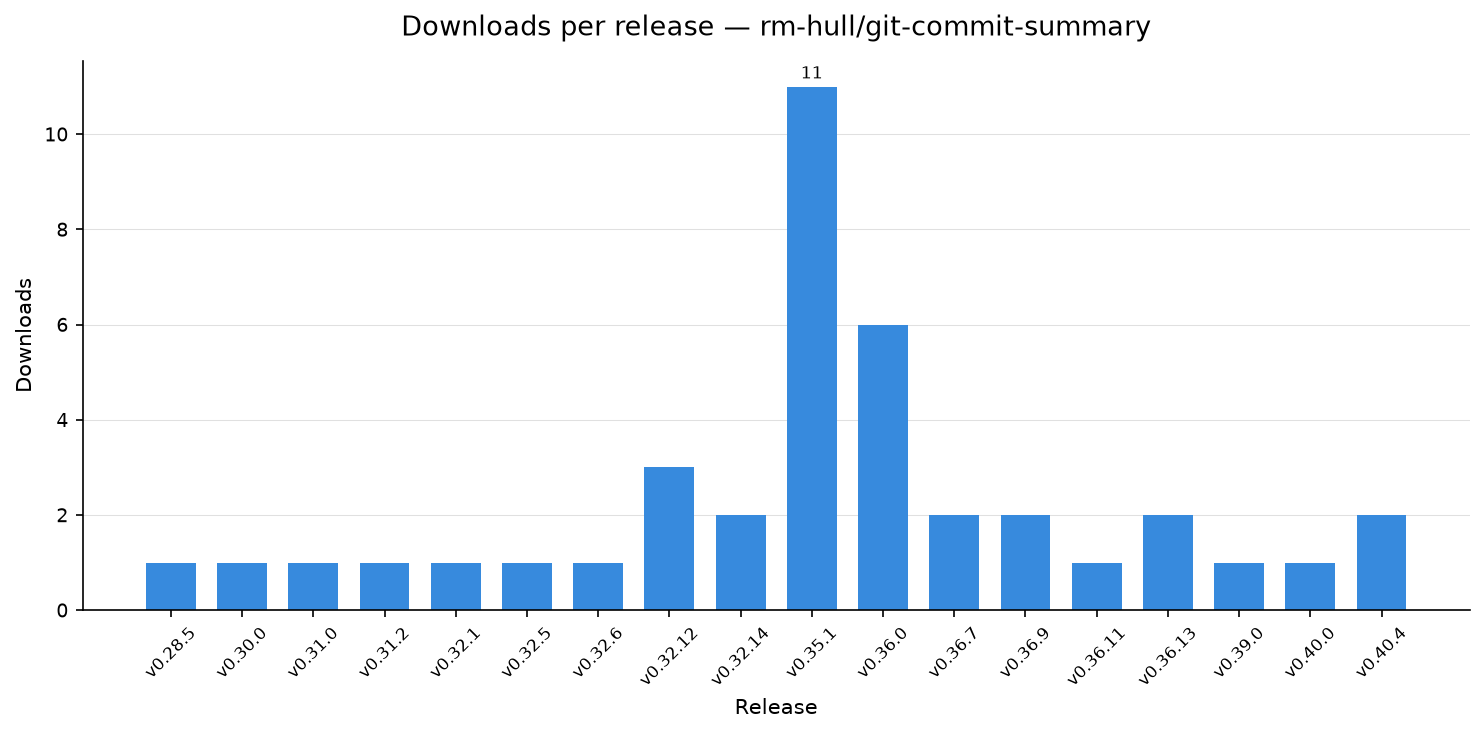
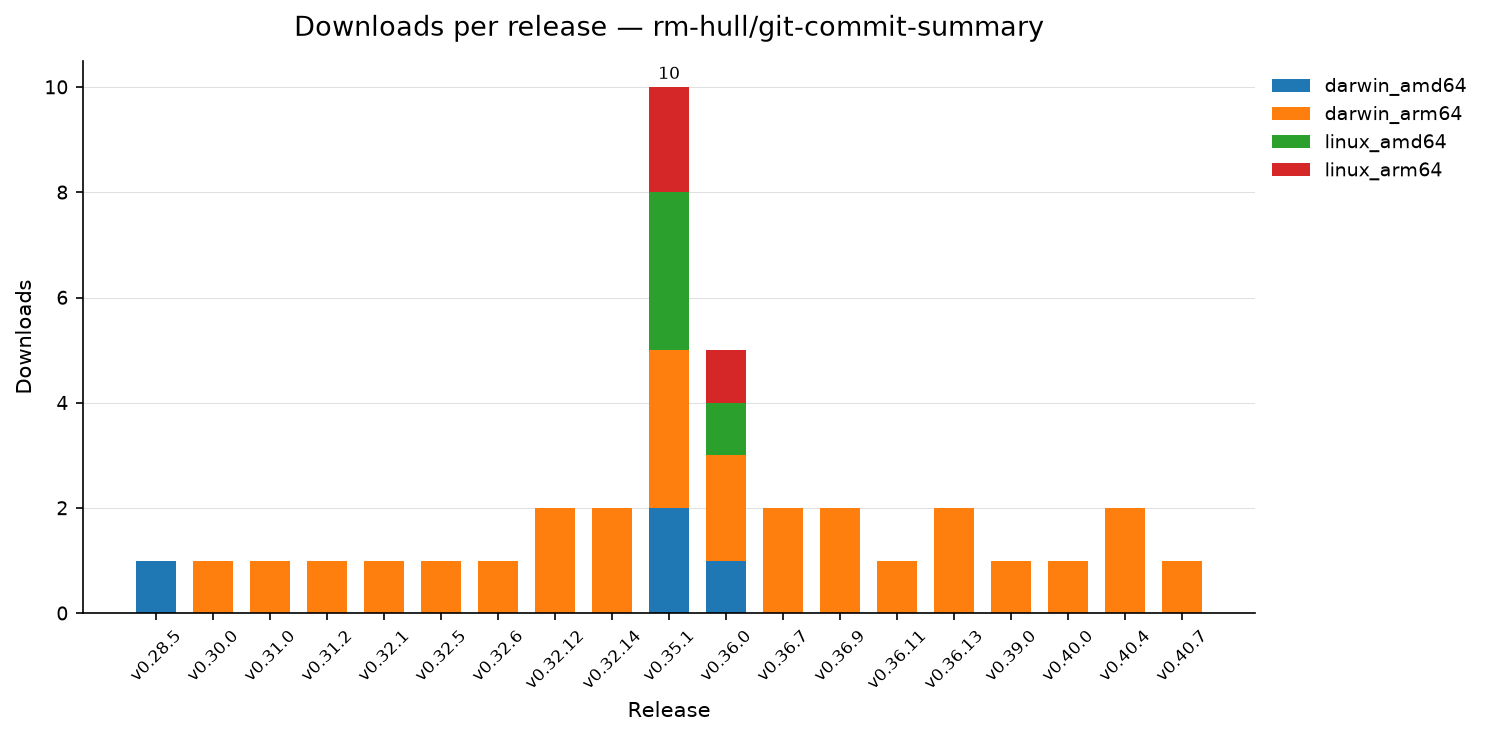
feat: breakdown download stats by architecture [skip ci]
Refactor `download_stats.py` to extract and visualize download counts
per architecture (OS/arch) rather than just total per release.

- Added `get_arch` helper to parse asset filenames.
- Replaced simple bar chart with a stacked bar chart using `matplotlib`
to show architecture distribution.
- Updated legend and layout to support multi-category data.

```mermaid
graph LR
    A[Fetch Releases] --> B[Parse Assets]
    B --> C{get_arch}
    C -->|Arch match| D[Group by OS/Arch]
    D --> E[Aggregate Counts]
    E --> F[Stacked Bar Chart]
```

diff --git a/.github/scripts/download_stats.py b/.github/scripts/download_stats.py
@@ -58,14 +58,33 @@ def main():
 
     releases = fetch_releases(repo)
 
-    stats = [
-        {
-            "tag": r["tag_name"],
-            "downloads": sum(a["download_count"] for a in r["assets"]),
-        }
-        for r in releases
-    ]
-    stats = [s for s in stats if s["downloads"] > 0]
+    def get_arch(name: str) -> str | None:
+        if name == "checksums.txt":
+            return None
+        parts = name.split("_")
+        # Expecting: [app_name, version, os, arch.ext]
+        if len(parts) < 4:
+            return None
+        os_part = parts[-2]
+        arch_part = parts[-1].split(".")[0]
+        return f"{os_part}_{arch_part}"
+
+    stats = []
+    for r in releases:
+        arch_counts = {}
+        total_downloads = 0
+        for a in r["assets"]:
+            arch = get_arch(a["name"])
+            if arch:
+                count = a["download_count"]
+                arch_counts[arch] = arch_counts.get(arch, 0) + count
+                total_downloads += count
+        if total_downloads > 0:
+            stats.append({
+                "tag": r["tag_name"],
+                "downloads": total_downloads,
+                "arch_counts": arch_counts,
+            })
     stats.reverse()  # chronological order
 
     if not stats:
@@ -116,14 +135,14 @@ def main():
 
     fig, ax = plt.subplots(figsize=(max(10, len(tags) * 0.5), 5))
 
-    colors = []
-    for s in filtered:
-        if s["tag"] == latest["tag"] and not is_latest_in_top20:
-            colors.append("#73726c")  # gray — latest but not top 20
-        else:
-            colors.append("#378ADD")  # blue — top 20
+    all_archs = sorted({arch for s in filtered for arch in s["arch_counts"]})
+    bottoms = [0] * len(filtered)
+    cmap = plt.get_cmap("tab10")
 
-    bars = ax.bar(tags, counts, color=colors, width=0.7)
+    for i, arch in enumerate(all_archs):
+        arch_counts = [s["arch_counts"].get(arch, 0) for s in filtered]
+        ax.bar(tags, arch_counts, bottom=bottoms, label=arch, color=cmap(i), width=0.7)
+        bottoms = [b + c for b, c in zip(bottoms, arch_counts)]
 
     ax.set_title(f"Downloads per release — {repo}", fontsize=13, pad=12)
     ax.set_xlabel("Release", fontsize=10)
@@ -147,18 +166,9 @@ def main():
         fontsize=8,
     )
 
-    # Legend if latest is shown outside top 20
-    if not is_latest_in_top20:
-        from matplotlib.patches import Patch
-
-        ax.legend(
-            handles=[
-                Patch(color="#378ADD", label="top 20 by downloads"),
-                Patch(color="#73726c", label="latest release"),
-            ],
-            fontsize=9,
-            frameon=False,
-        )
+    # Legend for architectures
+    if all_archs:
+        ax.legend(fontsize=9, frameon=False, loc="upper left", bbox_to_anchor=(1, 1))
 
     fig.tight_layout()
     fig.savefig(OUTPUT, dpi=150, bbox_inches="tight")
